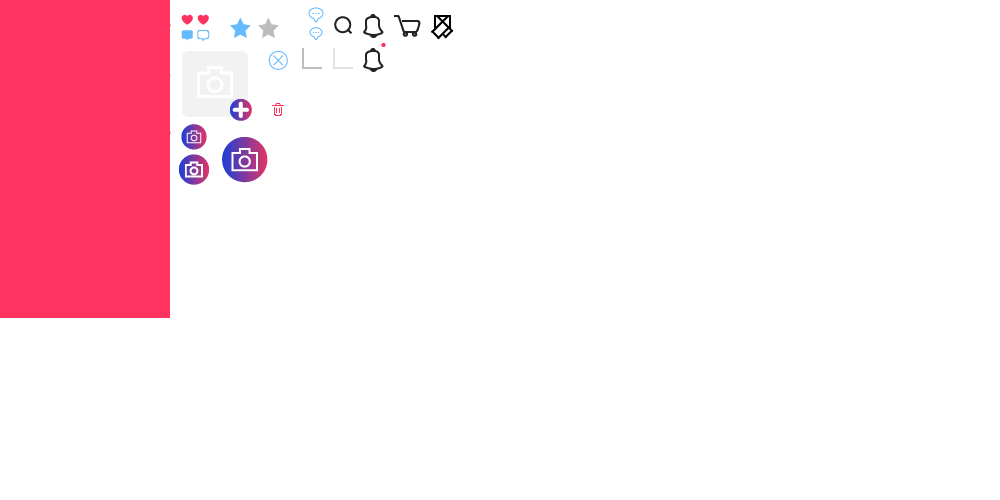
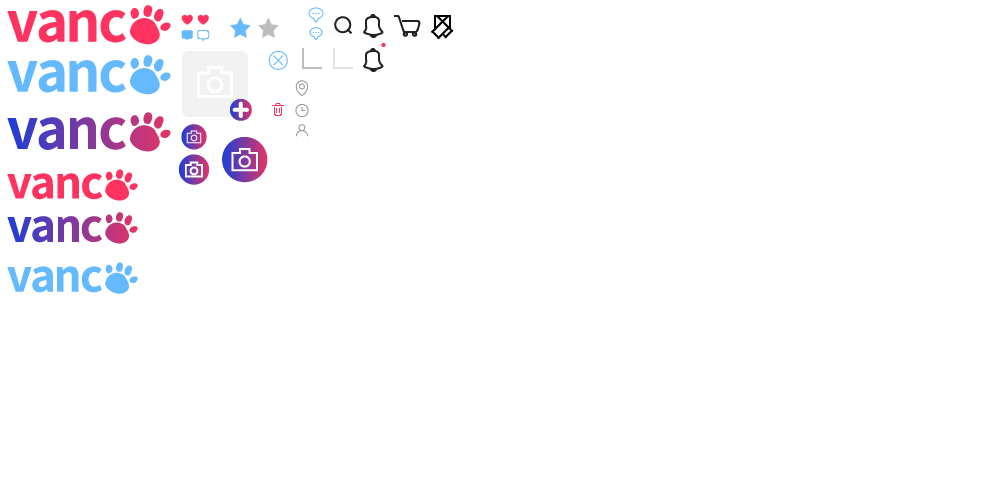
모임정보 CSS 작업 moim자바 패키지생성 moimAction, Servlet컨트롤러 생성

Changed region(s): [[0.0, 0.0, 0.186, 0.66], [0.279, 0.21, 0.31, 0.27], [0.279, 0.15, 0.31, 0.18]]

diff --git a/WebContent/css/moim/moimContent.css b/WebContent/css/moim/moimContent.css
@@ -1,0 +1,53 @@
+ 
+@CHARSET "UTF-8";
+
+ .moimContentWrap{width:900px; background:#fff; margin:0 auto; padding-bottom: 50px;}
+ 
+/*  모임 본문 상단 사진 */
+.moimTitPic{width:750px; height: 300px; margin:0 auto; background:#FF335F;}
+
+.moimContentMenu{width:750px; margin:0 auto;}
+.moimContentMenu a{display:inline-block; width: 246px; height:60px; border:none; font-size:18px; color:#222; line-height:60px; text-align:center;}
+.moimContentMenu a:HOVER {color:#64B9FF; font-weight:bold;}
+
+.moimContentMenu a span{display:inline-block;height:50px; padding-bottom:3px;}
+
+
+/* 모임정보 */
+.moimInfo{width:670px; padding:0 40px; margin: 0 auto 50px auto;}
+.moimInfo span{display:block;}
+.moimInfo span:NTH-CHILD(1){margin-top:30px; font-size: 26px; color:#222; }
+.moimInfo span:NTH-CHILD(2){margin-top:30px; font-size: 16px; color:#222; }
+
+
+/*번개모임*/
+.thunderMoim{width:660px; margin: 0 auto; border-bottom: 1px solid #e2e2e2;position:relative;}
+.thunderMoim span{display:block;}
+
+.calendarBox{display:inline-block; width:60px; height: 60px; box-shadow:3px 3px 10px 3px #E6E6E6; border-radius:15px;
+	position:absolute; top:20px; left:15px;}
+.calendarBox span:FIRST-CHILD{display:inline-block; width:60px; height:20px; background:#64b9ff; border-radius:15px 15px 0 0;
+	text-align: center; line-height:22px;font-size:12px; color:#fff;}
+.calendarBox span:last-CHILD{display:inline-block; width:60px; text-align: center; line-height:35px; font-size:28px; color:#222;}
+
+.thunderMoim> span{display:inline-block;}
+.thunderMoim> span:NTH-CHILD(2){font-size:16px; color:#222;position:absolute; top:15px; left:97px;}
+.thunderMoim> span:NTH-CHILD(3){position:absolute; top:45px; left:97px;}
+.thunderMoim> span:NTH-CHILD(4){position:absolute; top:42px; left:115px;}
+.thunderMoim> span:NTH-CHILD(5){position:absolute; top:70px; left:97px;}
+.thunderMoim> span:NTH-CHILD(6){position:absolute; top:67px; left:115px;}
+.thunderMoim> span:NTH-CHILD(7){position:absolute; top:70px; left:160px;}
+.thunderMoim> span:NTH-CHILD(8){position:absolute; top:67px; left:178px;}
+
+.thunderMoim .profileWrap{padding:95px 15px 10px 15px;}
+.thunderMoim .profileWrap img{margin-right: 5px;}
+
+
+
+
+
+
+
+
+
+

diff --git a/WebContent/css/index/common.css b/WebContent/css/index/common.css
@@ -149,7 +149,10 @@ body{background: #f7f7f7}
 .divImg3 img{align:top;}
 
 
-
+/* 모임 시간 위치 인원 아이콘 */
+.positionIcon{display:inline-block; width:15px; height:17px; background:url(/mmProject/images/icons.png)  no-repeat -295px -80px;}
+.clockIcon{display:inline-block; width:15px; height:17px; background:url(/mmProject/images/icons.png) no-repeat -295px -103px;}
+.personIcon{display:inline-block; width:15px; height:17px; background:url(/mmProject/images/icons.png)  no-repeat -295px -123px;}
 
 
 

diff --git a/src/moim/MoimServlet.java b/src/moim/MoimServlet.java
@@ -1,4 +1,4 @@
-package member;
+package moim;
 
 import java.io.IOException;
 import java.io.PrintWriter;
@@ -18,7 +18,7 @@ import moim.Action;
 import moim.ActionForward;
 
 
-public class MemberServlet extends HttpServlet {
+public class MoimServlet extends HttpServlet {
 	
 	protected void doGet(HttpServletRequest request, HttpServletResponse response) throws ServletException, IOException {doProcess(request,response);System.out.println("�ΰ�");}
 	protected void doPost(HttpServletRequest request, HttpServletResponse response) throws ServletException, IOException {doProcess(request,response);System.out.println("������Ʈ");}
@@ -43,21 +43,28 @@ public class MemberServlet extends HttpServlet {
 		// 요청주소(command)에 따라 작업 처리 시작하기
 		
 		// 회원가입 메인 연결(userJoin.me)////////////////////////////////////////////////////////////////////
-	if(command.equals("/userJoin.me")){
+	if(command.equals("/moimContent.mo")){
 		//페이지 이동방식 선택(true=리다이렉트, false=디스패치(경로 노툴안함))
 		forward=new ActionForward();
 		forward.setRedirect(false);		
-		forward.setPath("./member/userJoin.jsp");  //이동할 페이지 경로 주소값 저장(회원가입 입력 페이지)
+		forward.setPath("./moim/moimContent.jsp");  //이동할 페이지 경로 주소값 저장(회원가입 입력 페이지)
 		
 		
-// ���������� ����(mm.me)////////////////////////////////////////////////////////////////////	
-	}else if(command.equals("/mm.me")){
-		//������ �̵���� ����(true=�����̷�Ʈ, false=����ġ(��� �������))
+// moimContent.mo(모임정보 페이지 이동)////////////////////////////////////////////////////////////////////	
+	}else if(command.equals("/moimInfo.mo")){
 		forward=new ActionForward();
 		forward.setRedirect(false);
-		
-		//�̵��� ������ ��� �ּҰ� ����
+		forward.setPath("./moim/moimContent.jsp?pageCall=moimInfo.jsp");		
+
+	}else if(command.equals("/moimContent.me")){
+		forward=new ActionForward();
+		forward.setRedirect(false);
 		forward.setPath("/index.jsp");		
+
+	}else if(command.equals("/moimBoard.mo")){
+		forward=new ActionForward();
+		forward.setRedirect(false);
+		forward.setPath("./moim/moimContent.jsp?pageCall=moimBoard.jsp");		
 
 	}
 	

diff --git a/src/moim/ActionForward.java b/src/moim/ActionForward.java
@@ -1,0 +1,35 @@
+package moim;
+
+/*
+ActionForward 클래스는 Action 인터페이스를 구현한 자식객체의 명령을 수행하고
+ 결과값을 가지고 페이지를 포워딩(재요청)할때 사용되는 클래스이다
+	하는일1. 페이지 이동방식 여부값을 저장후 반환해준다
+		- 페이지 이동방식 여부값 true 일때 => response.rendredirect();리다이렉트방식
+		- 페이지 이동방식 여부값 false일때 => forward(); 디스패치 방식으로 전달 		 
+	하는일2. 이동할 페이지 경로 주소값을 저장하여 반환해주는 역할.
+*/
+
+public class ActionForward {
+	// 페이지 이동방식 여부값을 저장할 변수
+	private boolean isRedirect=false;	
+	// 이동할 페이지 경로 주소값을 저장할 변수
+	private String path=null;
+	
+	// 페이지 이동방식 여부값을 저장할 메소드
+	public void setRedirect(boolean isRedirect){
+		this.isRedirect=isRedirect;	}
+	
+	// 페이지 이동방식 여부값을 리턴해주는 메소드
+	public boolean isRedirect(){
+		return isRedirect;	}
+	
+	// 이동할 페이지 경로 주소값을 리턴해주는 메소드
+	public String getPath() {
+		return path;	}
+
+	// 이동할 페이지 경로 주소값을 저장할 메소드
+	public void setPath(String path) {
+		this.path = path;	}
+
+}// 클래스 종료
+

diff --git a/src/moim/Action.java b/src/moim/Action.java
@@ -1,0 +1,9 @@
+package moim;
+
+import javax.servlet.http.HttpServletRequest;
+import javax.servlet.http.HttpServletResponse;
+
+//Action 인터페이스의 추상메소드를 구현한 자식클래스에서 공통적으로 사용할 틀
+public interface Action {	
+	public ActionForward execute(HttpServletRequest request, HttpServletResponse response) throws Exception;	
+}
